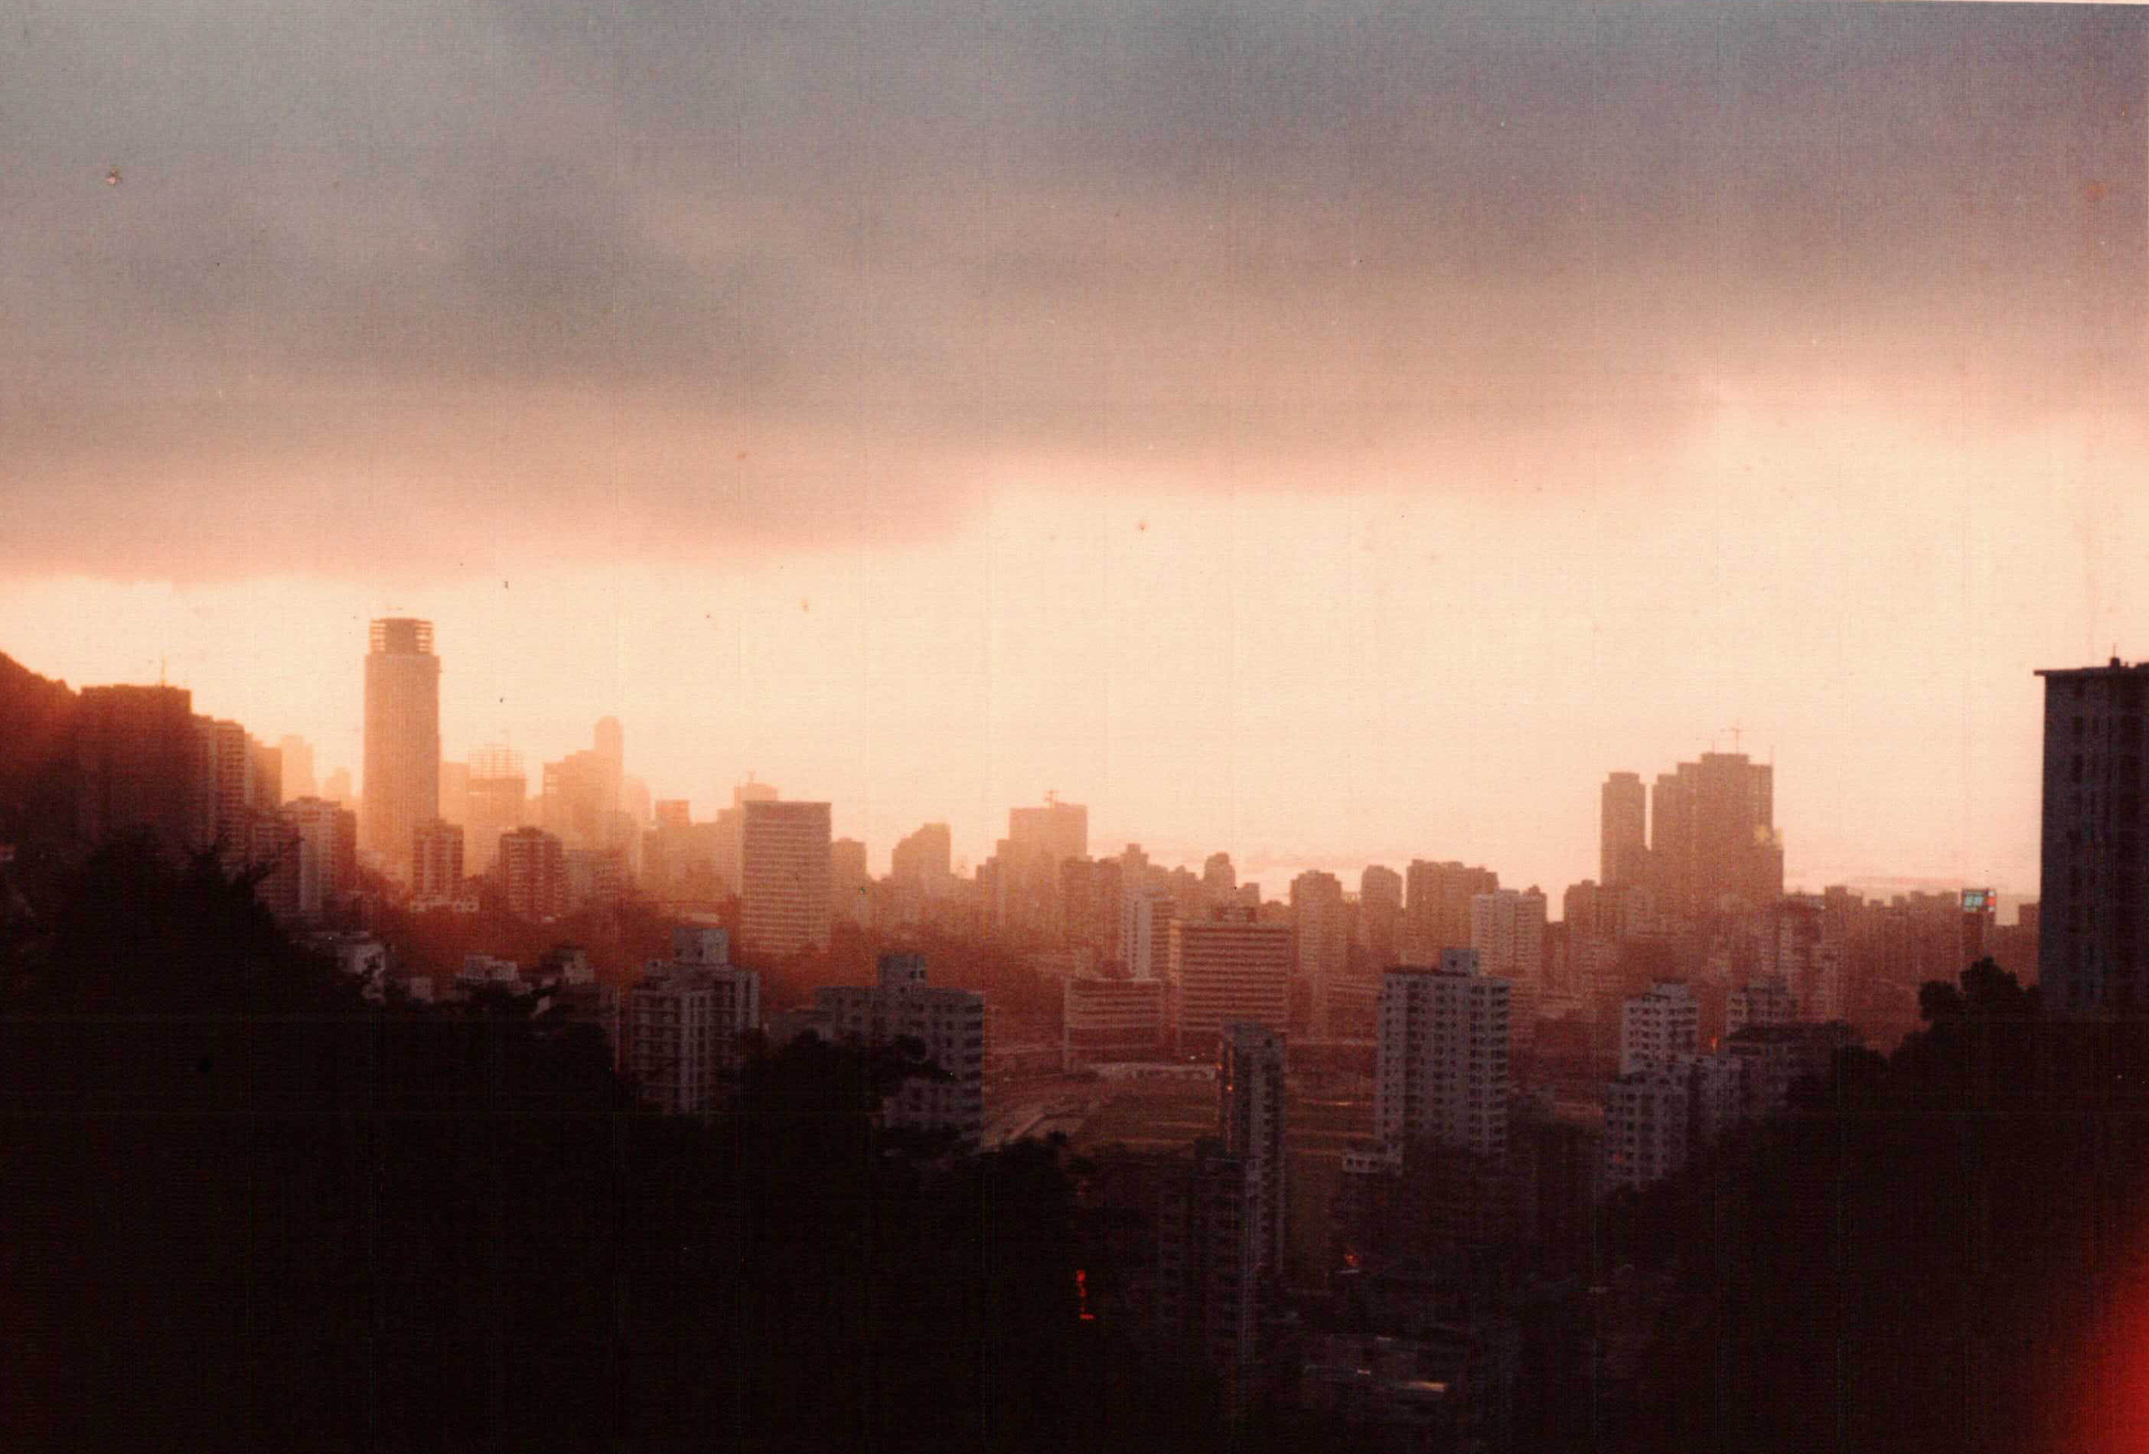
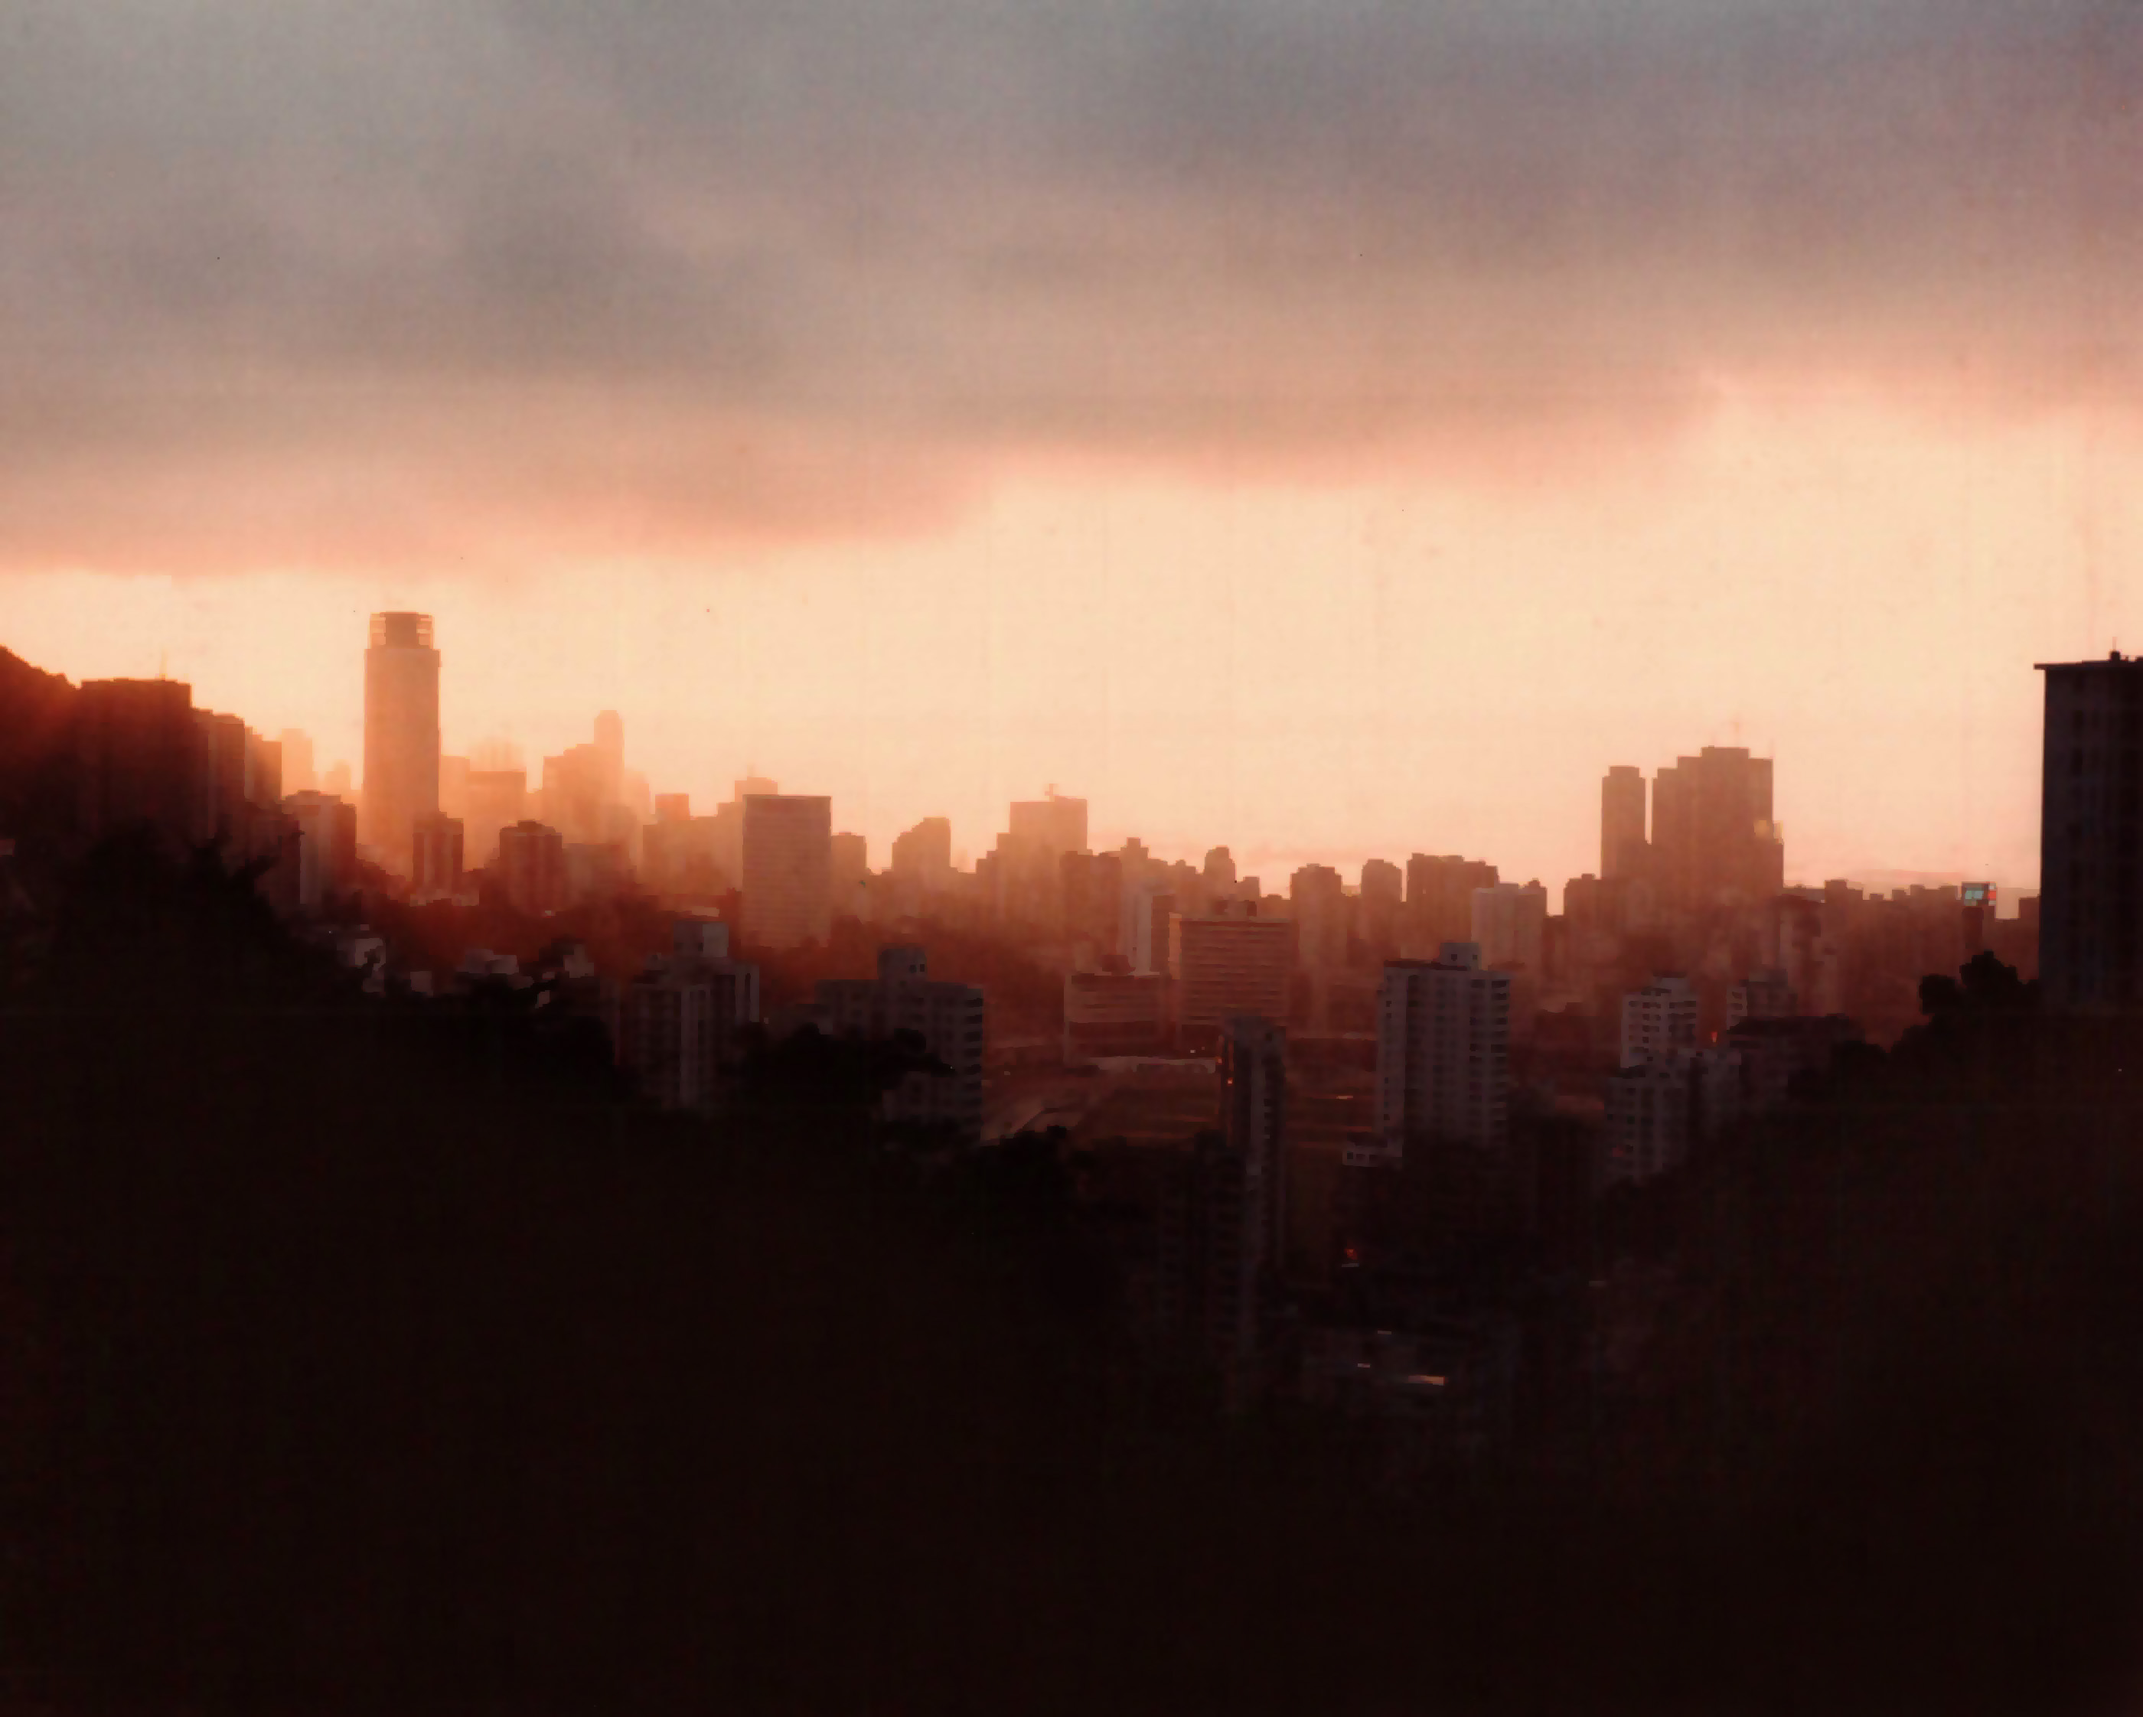
updating background image

diff --git a/index.css b/index.css
@@ -5,7 +5,7 @@ html, body{
 }
 
 .wrapper{
-    background-image: url("background2.jpg");
+    background-image: url("Background.jpg");
     background-size:100% 100%;
     background-repeat: no-repeat;
     height:100%;
